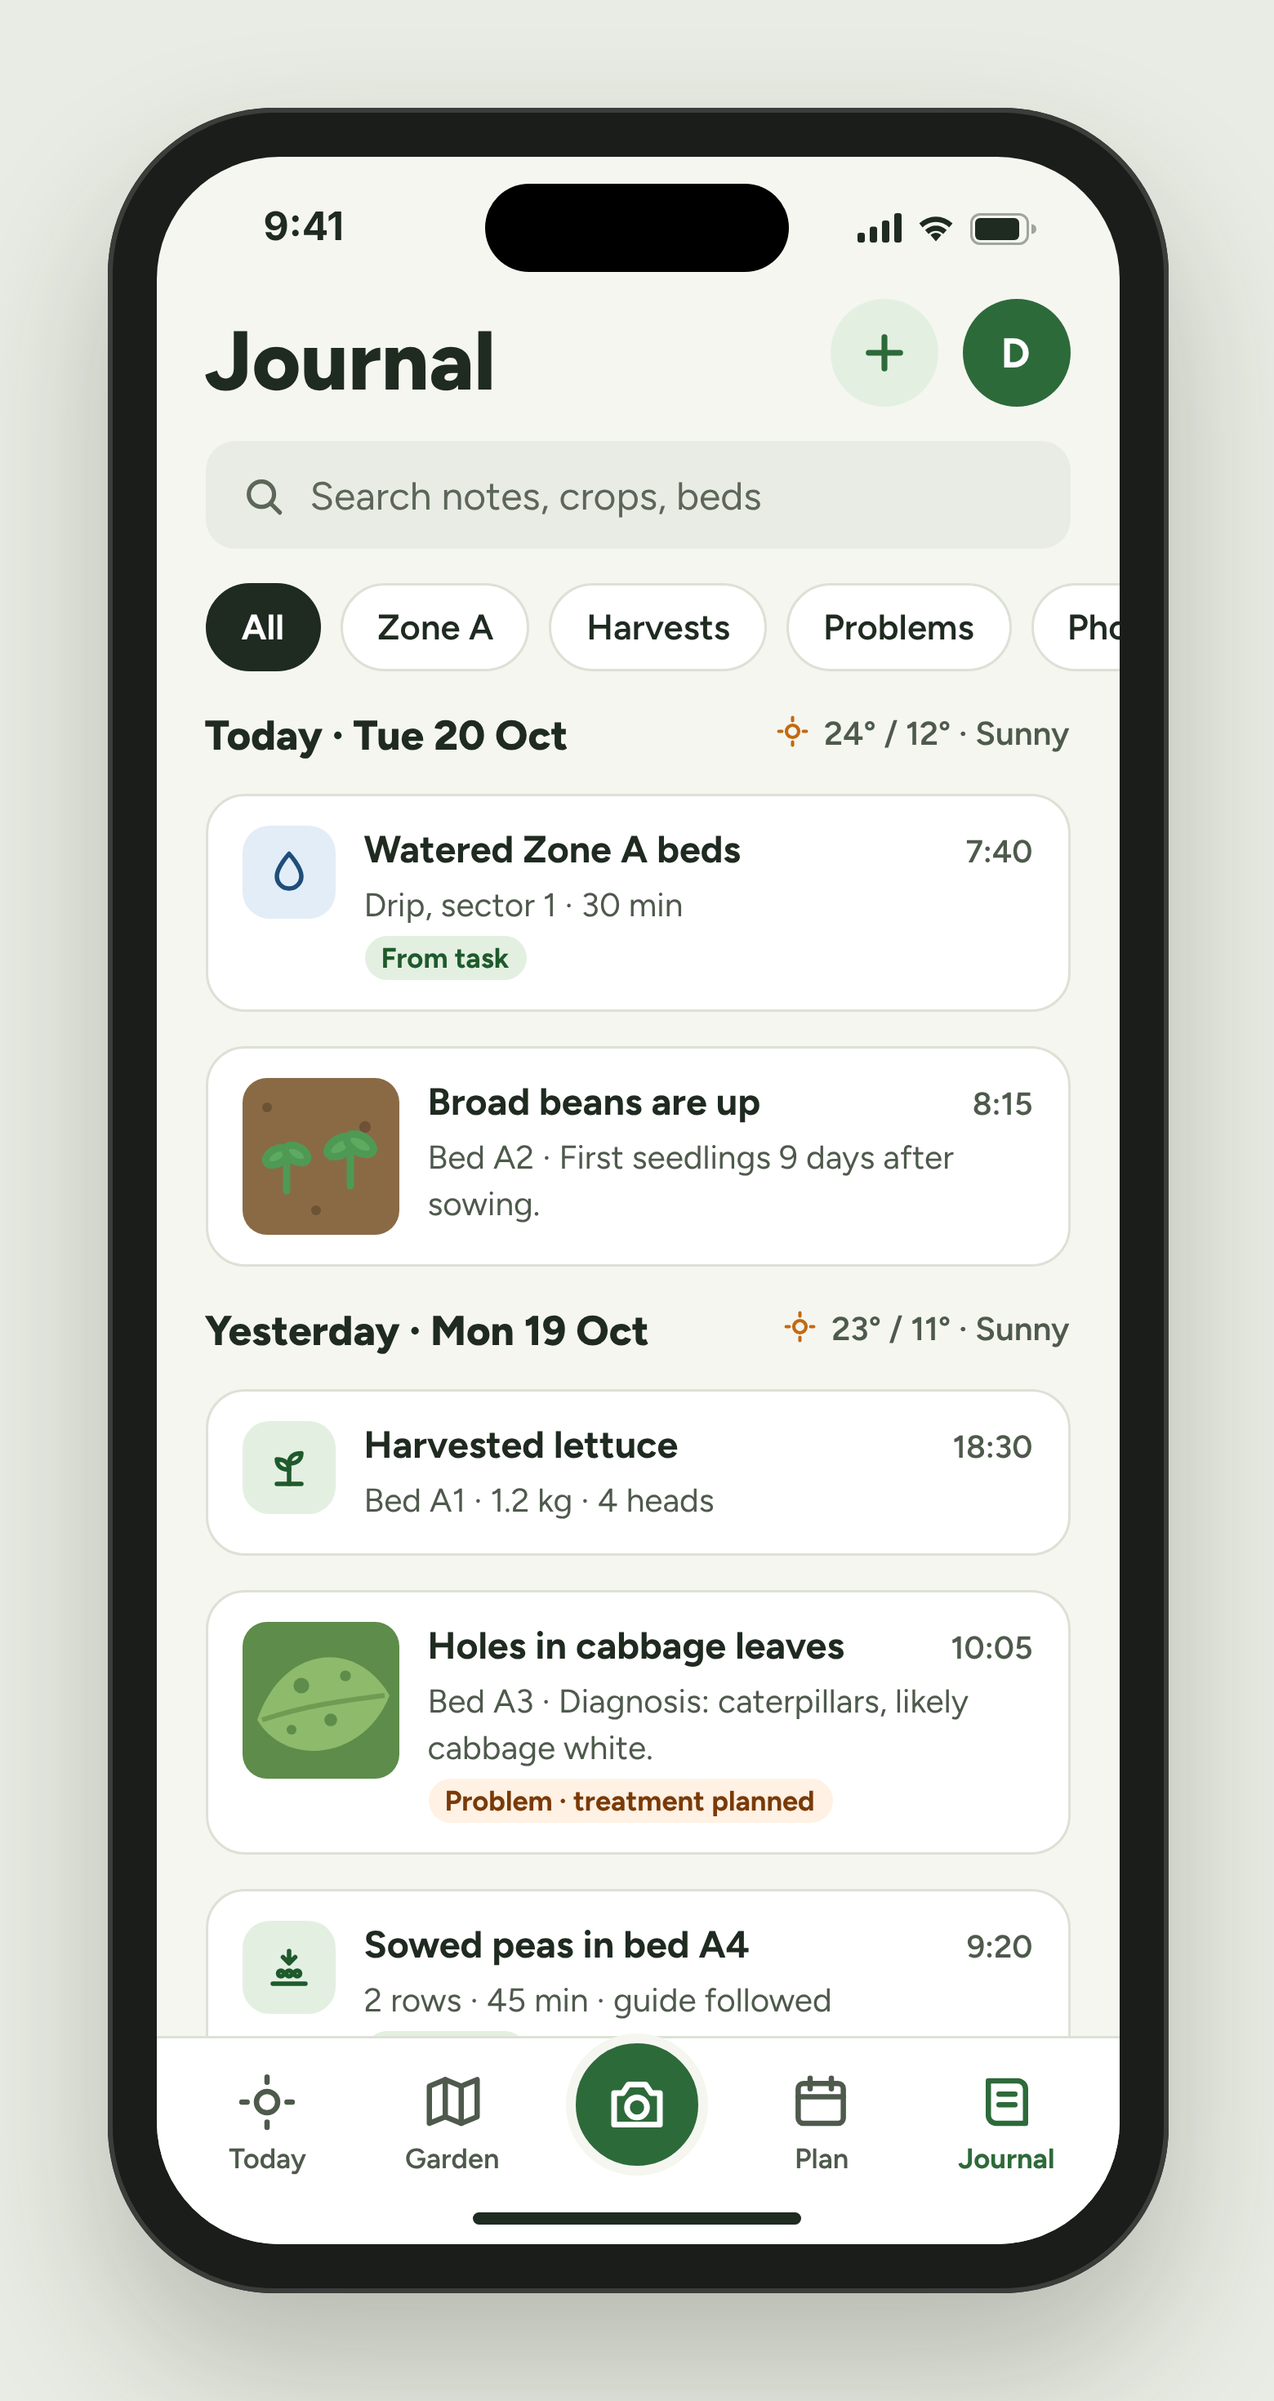
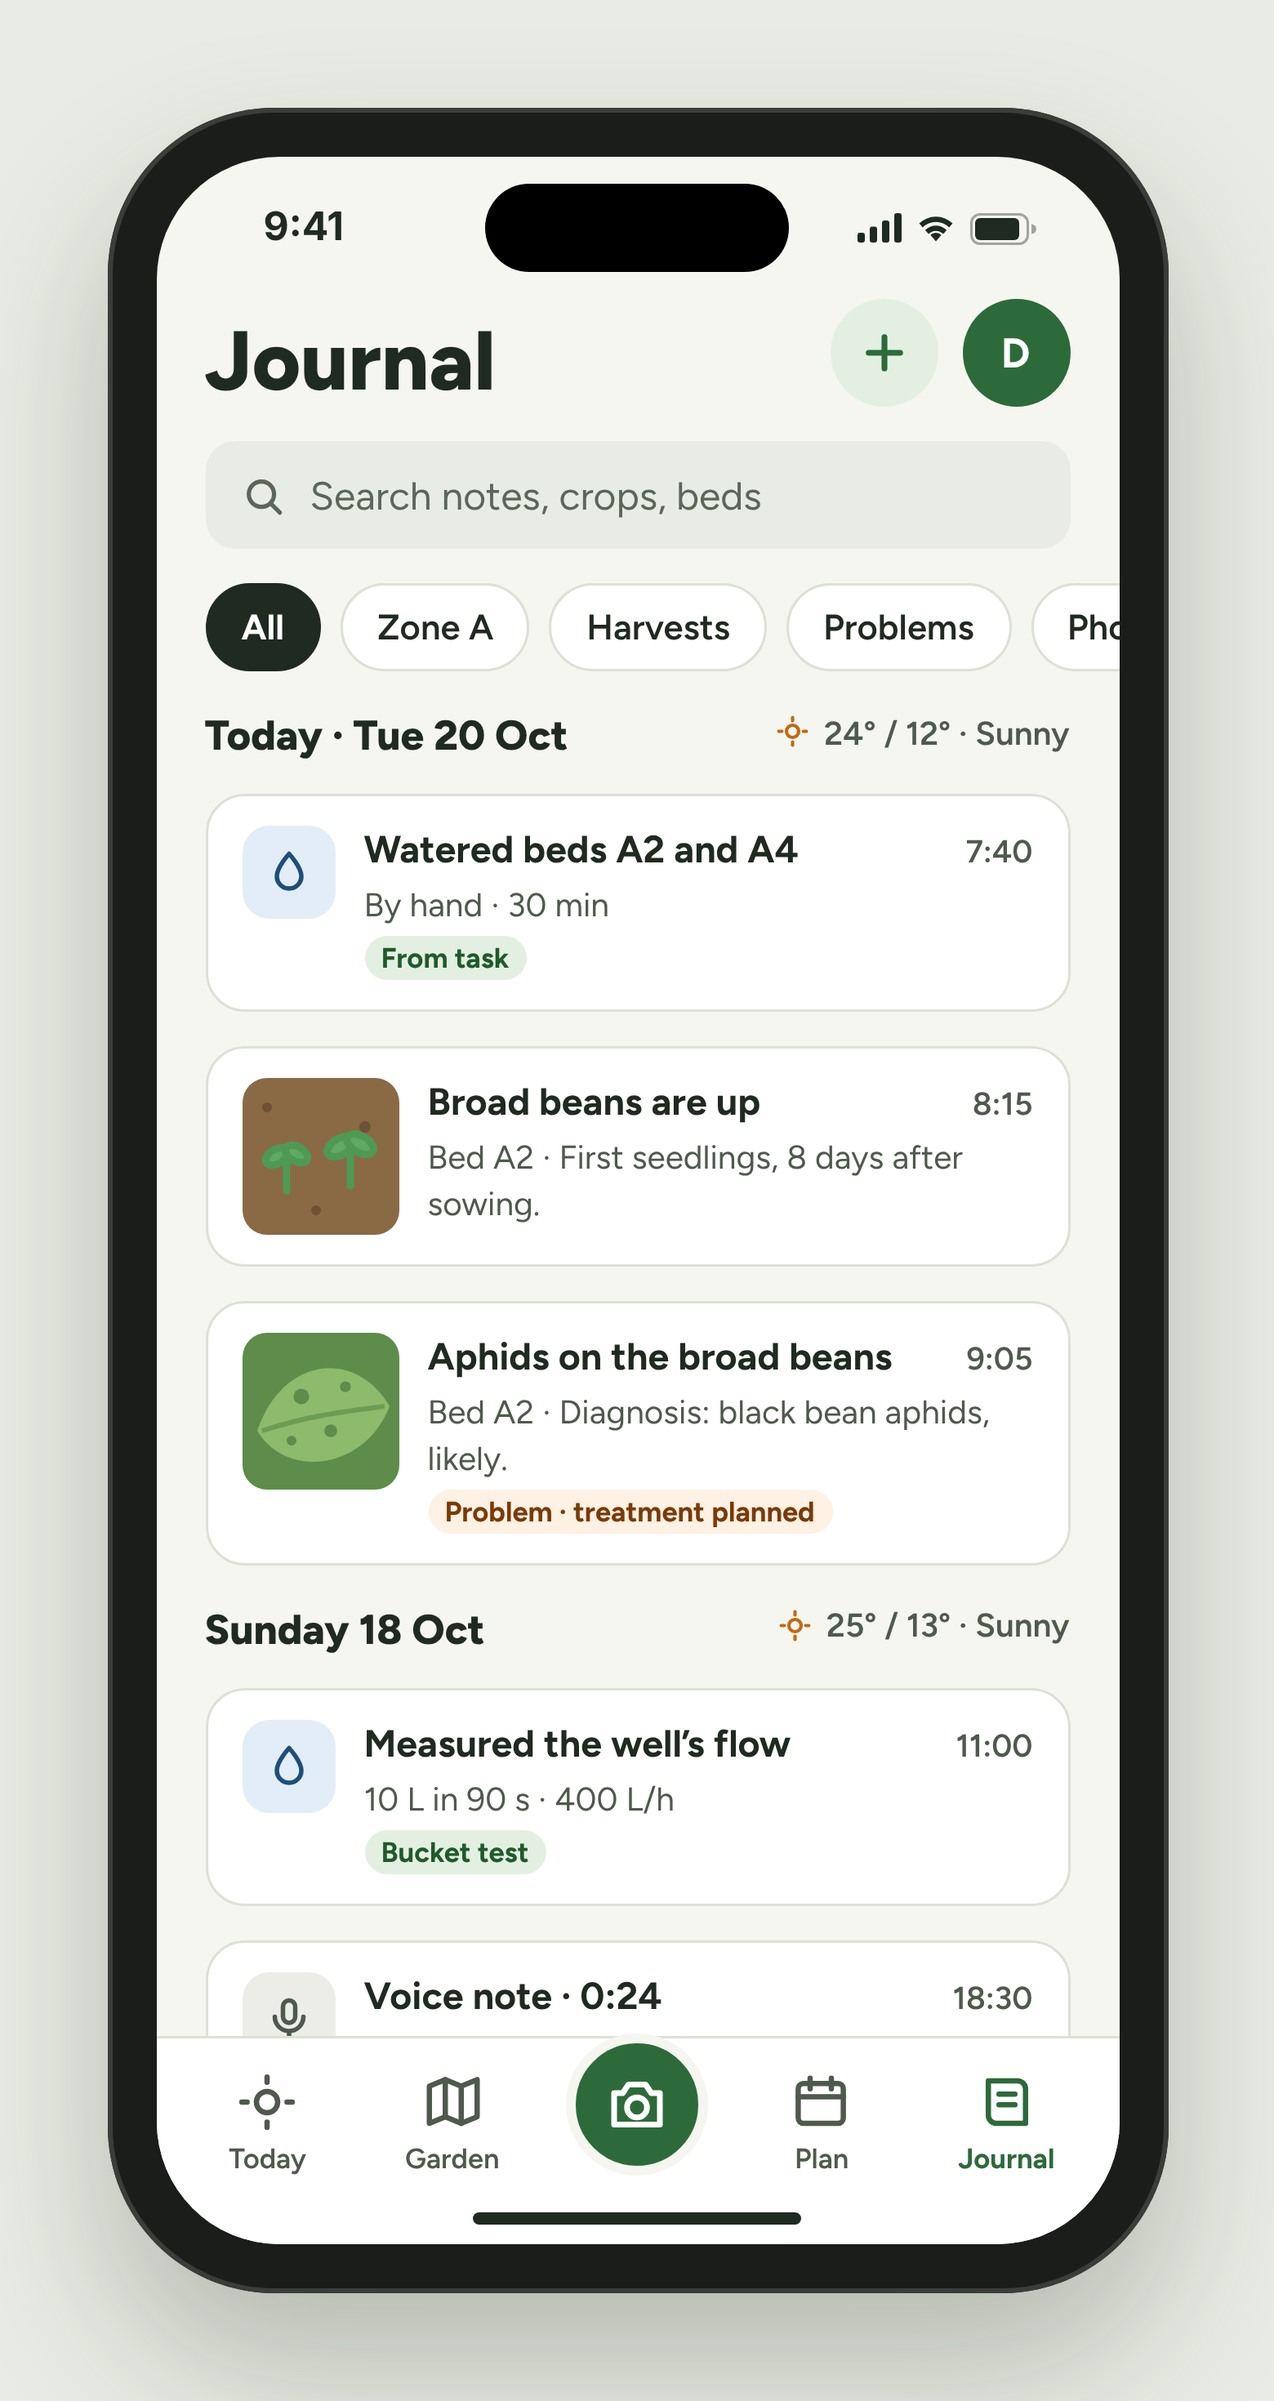
Design F1 journal: entries match the garden (hand watering, beans up, aphids, well flow test, voice note)
Claude-Session: https://claude.ai/code/session_015NynAjU4naPZwzmeuGazot

diff --git a/design/source/F1-journal-full.html b/design/source/F1-journal-full.html
@@ -1,0 +1,133 @@
+<!doctype html>
+<html lang="en">
+<head>
+<meta charset="utf-8">
+<title>F1 Journal</title>
+<link href="https://fonts.googleapis.com/css2?family=Figtree:wght@400;500;600;700;800&display=swap" rel="stylesheet">
+<link rel="stylesheet" href="frame.css">
+<style>
+  .body { flex: 1; overflow: hidden; padding: 4px 20px 0; display: flex; flex-direction: column; gap: 14px; }
+  .body > * { flex: none; }
+  .titlerow { display: flex; align-items: flex-end; justify-content: space-between; }
+  h1 { margin: 0; font-size: 34px; font-weight: 800; line-height: 1.1; }
+  .actions { display: flex; gap: 10px; }
+  .avatar { width: 44px; height: 44px; border-radius: 999px; background: var(--green); color: #fff; font-weight: 700; font-size: 17px; display: flex; align-items: center; justify-content: center; }
+  .plus { width: 44px; height: 44px; border-radius: 999px; background: var(--green-soft); display: flex; align-items: center; justify-content: center; }
+  .search { height: 44px; border-radius: 12px; background: #E9ECE4; display: flex; align-items: center; gap: 10px; padding: 0 14px; font-size: 16px; color: #5C6659; }
+  .chips { display: flex; gap: 8px; margin-right: -20px; overflow: hidden; }
+  .chip { height: 36px; padding: 0 14px; border-radius: 999px; background: #fff; border: 1px solid var(--line); font-size: 14.5px; font-weight: 600; display: flex; align-items: center; white-space: nowrap; }
+  .chip.on { background: var(--text); border-color: var(--text); color: #fff; font-weight: 700; }
+  .day { display: flex; justify-content: space-between; align-items: baseline; margin-top: 2px; }
+  .day b { font-size: 17px; font-weight: 800; }
+  .day span { font-size: 13.5px; color: var(--muted); font-weight: 600; display: flex; gap: 5px; align-items: center; }
+  .entry { background: #fff; border: 1px solid var(--line); border-radius: 16px; padding: 12px 14px; display: flex; gap: 12px; }
+  .ic { width: 38px; height: 38px; border-radius: 11px; display: flex; align-items: center; justify-content: center; flex: none; }
+  .txt { flex: 1; min-width: 0; display: flex; flex-direction: column; gap: 3px; }
+  .t1 { display: flex; align-items: center; gap: 8px; }
+  .t1 b { font-size: 15.5px; font-weight: 700; line-height: 1.3; }
+  .time { margin-left: auto; font-size: 13px; color: var(--muted); font-weight: 600; flex: none; }
+  .meta { font-size: 13.5px; color: var(--muted); line-height: 1.4; }
+  .badge { font-size: 11.5px; font-weight: 700; padding: 2px 7px; border-radius: 999px; background: var(--green-soft); color: var(--green-ink); white-space: nowrap; }
+  .badge.warn { background: var(--orange-soft); color: #7A3A08; }
+  .thumb { width: 64px; height: 64px; border-radius: 10px; overflow: hidden; flex: none; }
+  .tabbar { position: relative; z-index: 30; flex: none; background: #fff; border-top: 1px solid var(--line); padding: 8px 8px 28px; display: grid; grid-template-columns: repeat(5, minmax(0, 1fr)); align-items: end; }
+  .tab { color: var(--muted); display: flex; flex-direction: column; align-items: center; gap: 3px; font-size: 11.5px; font-weight: 600; min-height: 48px; justify-content: flex-end; }
+  .tab.on { color: var(--green); font-weight: 700; }
+  .cam { display: flex; justify-content: center; }
+  .cam span { width: 58px; height: 58px; border-radius: 999px; background: var(--green); display: flex; align-items: center; justify-content: center; margin-top: -22px; border: 4px solid var(--bg); }
+</style>
+<style>.stage{height:1060px}.phone{height:1000px}.screen{height:960px}</style>
+</head>
+<body>
+<div class="stage"><div class="phone"><div class="screen">
+  <div class="island"></div>
+  <div class="status">
+    <span>9:41</span>
+    <span class="icons">
+      <svg width="18" height="12" viewBox="0 0 18 12"><rect x="0" y="8" width="3" height="4" rx="1" fill="#1F2A20"/><rect x="5" y="5.5" width="3" height="6.5" rx="1" fill="#1F2A20"/><rect x="10" y="3" width="3" height="9" rx="1" fill="#1F2A20"/><rect x="15" y="0" width="3" height="12" rx="1" fill="#1F2A20"/></svg>
+      <svg width="16" height="12" viewBox="0 0 16 12"><path d="M8 11.5l2.2-2.6a3.2 3.2 0 0 0-4.4 0z" fill="#1F2A20"/><path d="M3.6 6.9a6.3 6.3 0 0 1 8.8 0l-1.4 1.6a4.2 4.2 0 0 0-6 0z" fill="#1F2A20"/><path d="M1.2 4.2a9.7 9.7 0 0 1 13.6 0l-1.4 1.6a7.6 7.6 0 0 0-10.8 0z" fill="#1F2A20"/></svg>
+      <svg width="27" height="13" viewBox="0 0 27 13"><rect x="0.5" y="0.5" width="23" height="12" rx="3.5" fill="none" stroke="#1F2A20" opacity=".4"/><rect x="2" y="2" width="18" height="9" rx="2" fill="#1F2A20"/><path d="M25 4.5v4a2 2 0 0 0 0-4z" fill="#1F2A20" opacity=".4"/></svg>
+    </span>
+  </div>
+
+  <div class="body">
+    <div class="titlerow">
+      <h1>Journal</h1>
+      <div class="actions">
+        <div class="plus" aria-label="New entry"><svg width="22" height="22" viewBox="0 0 24 24" fill="none" stroke="#2D6A3A" stroke-width="2.6" stroke-linecap="round"><path d="M12 5v14M5 12h14"/></svg></div>
+        <div class="avatar">D</div>
+      </div>
+    </div>
+    <div class="search">
+      <svg width="19" height="19" viewBox="0 0 24 24" fill="none" stroke="#5C6659" stroke-width="2.2" stroke-linecap="round"><circle cx="11" cy="11" r="6.5"/><path d="M16 16l4.5 4.5"/></svg>
+      Search notes, crops, beds
+    </div>
+    <div class="chips">
+      <span class="chip on">All</span><span class="chip">Zone A</span><span class="chip">Harvests</span><span class="chip">Problems</span><span class="chip">Photos</span>
+    </div>
+
+    <div class="day"><b>Today · Tue 20 Oct</b><span>
+      <svg width="15" height="15" viewBox="0 0 24 24" fill="none" stroke="#C26A12" stroke-width="2.2" stroke-linecap="round"><circle cx="12" cy="12" r="4"/><path d="M12 3v2M12 19v2M3 12h2M19 12h2"/></svg>24° / 12° · Sunny</span></div>
+
+    <div class="entry">
+      <div class="ic" style="background:#E3EDF7"><svg width="20" height="20" viewBox="0 0 24 24" fill="none" stroke="#1E4E7A" stroke-width="2.2" stroke-linecap="round" stroke-linejoin="round"><path d="M12 3s6 6.5 6 11a6 6 0 0 1-12 0c0-4.5 6-11 6-11z"/></svg></div>
+      <div class="txt">
+        <div class="t1"><b>Watered beds A2 and A4</b><span class="time">7:40</span></div>
+        <div class="meta">By hand · 30 min</div>
+        <div style="display:flex"><span class="badge">From task</span></div>
+      </div>
+    </div>
+
+    <div class="entry">
+      <div class="thumb">
+        <svg width="64" height="64" viewBox="0 0 64 64"><rect width="64" height="64" fill="#8A6A45"/><g fill="#6E5236"><circle cx="10" cy="12" r="2"/><circle cx="50" cy="20" r="2.4"/><circle cx="30" cy="54" r="2"/></g><g stroke="#4E9A55" stroke-width="3" stroke-linecap="round" fill="#5DAA60"><path d="M18 46 V34" fill="none"/><ellipse cx="14" cy="32" rx="5" ry="3" transform="rotate(-30 14 32)"/><ellipse cx="22" cy="31" rx="5" ry="3" transform="rotate(30 22 31)"/><path d="M44 44 V30" fill="none"/><ellipse cx="40" cy="28" rx="6" ry="3.4" transform="rotate(-30 40 28)"/><ellipse cx="48" cy="27" rx="6" ry="3.4" transform="rotate(30 48 27)"/></g></svg>
+      </div>
+      <div class="txt">
+        <div class="t1"><b>Broad beans are up</b><span class="time">8:15</span></div>
+        <div class="meta">Bed A2 · First seedlings, 8 days after sowing.</div>
+      </div>
+    </div>
+
+    <div class="entry">
+      <div class="thumb">
+        <svg width="64" height="64" viewBox="0 0 64 64"><rect width="64" height="64" fill="#5E8C4A"/><path d="M6 40 C 16 10, 46 6, 60 30 C 50 56, 18 60, 6 40z" fill="#8DBA6B"/><path d="M8 40 C 26 34, 42 32, 58 30" stroke="#6E9C52" stroke-width="2" fill="none"/><g fill="#5E8C4A"><circle cx="24" cy="26" r="3.2"/><circle cx="36" cy="40" r="2.6"/><circle cx="42" cy="22" r="2.2"/><circle cx="20" cy="44" r="2"/></g></svg>
+      </div>
+      <div class="txt">
+        <div class="t1"><b>Aphids on the broad beans</b><span class="time">9:05</span></div>
+        <div class="meta">Bed A2 · Diagnosis: black bean aphids, likely.</div>
+        <div style="display:flex"><span class="badge warn">Problem · treatment planned</span></div>
+      </div>
+    </div>
+
+    <div class="day"><b>Sunday 18 Oct</b><span>
+      <svg width="15" height="15" viewBox="0 0 24 24" fill="none" stroke="#C26A12" stroke-width="2.2" stroke-linecap="round"><circle cx="12" cy="12" r="4"/><path d="M12 3v2M12 19v2M3 12h2M19 12h2"/></svg>25° / 13° · Sunny</span></div>
+
+    <div class="entry">
+      <div class="ic" style="background:#E3EDF7"><svg width="20" height="20" viewBox="0 0 24 24" fill="none" stroke="#1E4E7A" stroke-width="2.2" stroke-linecap="round" stroke-linejoin="round"><path d="M12 3s6 6.5 6 11a6 6 0 0 1-12 0c0-4.5 6-11 6-11z"/></svg></div>
+      <div class="txt">
+        <div class="t1"><b>Measured the well’s flow</b><span class="time">11:00</span></div>
+        <div class="meta">10 L in 90 s · 400 L/h</div>
+        <div style="display:flex"><span class="badge">Bucket test</span></div>
+      </div>
+    </div>
+
+    <div class="entry">
+      <div class="ic" style="background:#ECEDE8"><svg width="20" height="20" viewBox="0 0 24 24" fill="none" stroke="#4E5A4C" stroke-width="2.2" stroke-linecap="round" stroke-linejoin="round"><rect x="9" y="3" width="6" height="11" rx="3"/><path d="M5 11a7 7 0 0 0 14 0M12 18v3"/></svg></div>
+      <div class="txt">
+        <div class="t1"><b>Voice note · 0:24</b><span class="time">18:30</span></div>
+        <div class="meta">“The pump makes a knocking noise when it starts. Ask about it.”</div>
+      </div>
+    </div>
+  </div>
+
+  <nav class="tabbar">
+    <span class="tab"><svg width="26" height="26" viewBox="0 0 24 24" fill="none" stroke="currentColor" stroke-width="2" stroke-linecap="round" stroke-linejoin="round"><circle cx="12" cy="12" r="4"/><path d="M12 2.5v2M12 19.5v2M2.5 12h2M19.5 12h2"/></svg>Today</span>
+    <span class="tab"><svg width="26" height="26" viewBox="0 0 24 24" fill="none" stroke="currentColor" stroke-width="2" stroke-linecap="round" stroke-linejoin="round"><path d="M3 6l6-2.5 6 2.5 6-2.5v14l-6 2.5-6-2.5-6 2.5z"/><path d="M9 3.5v14M15 6v14"/></svg>Garden</span>
+    <span class="cam"><span><svg width="28" height="28" viewBox="0 0 24 24" fill="none" stroke="#fff" stroke-width="2" stroke-linecap="round" stroke-linejoin="round"><path d="M4 8h3l2-3h6l2 3h3v11H4z"/><circle cx="12" cy="13" r="3.5"/></svg></span></span>
+    <span class="tab"><svg width="26" height="26" viewBox="0 0 24 24" fill="none" stroke="currentColor" stroke-width="2" stroke-linecap="round" stroke-linejoin="round"><rect x="3.5" y="5" width="17" height="15" rx="2"/><path d="M3.5 10h17M8 3v4M16 3v4"/></svg>Plan</span>
+    <span class="tab on"><svg width="26" height="26" viewBox="0 0 24 24" fill="none" stroke="currentColor" stroke-width="2" stroke-linecap="round" stroke-linejoin="round"><path d="M5 4h11a3 3 0 0 1 3 3v13H8a3 3 0 0 1-3-3z"/><path d="M9 9h6M9 13h6"/></svg>Journal</span>
+  </nav>
+  <div class="home"></div>
+</div></div></div>
+</body>
+</html>

diff --git a/design/source/F1-journal.html b/design/source/F1-journal.html
@@ -71,8 +71,8 @@
     <div class="entry">
       <div class="ic" style="background:#E3EDF7"><svg width="20" height="20" viewBox="0 0 24 24" fill="none" stroke="#1E4E7A" stroke-width="2.2" stroke-linecap="round" stroke-linejoin="round"><path d="M12 3s6 6.5 6 11a6 6 0 0 1-12 0c0-4.5 6-11 6-11z"/></svg></div>
       <div class="txt">
-        <div class="t1"><b>Watered Zone A beds</b><span class="time">7:40</span></div>
-        <div class="meta">Drip, sector 1 · 30 min</div>
+        <div class="t1"><b>Watered beds A2 and A4</b><span class="time">7:40</span></div>
+        <div class="meta">By hand · 30 min</div>
         <div style="display:flex"><span class="badge">From task</span></div>
       </div>
     </div>
@@ -83,18 +83,7 @@
       </div>
       <div class="txt">
         <div class="t1"><b>Broad beans are up</b><span class="time">8:15</span></div>
-        <div class="meta">Bed A2 · First seedlings 9 days after sowing.</div>
-      </div>
-    </div>
-
-    <div class="day"><b>Yesterday · Mon 19 Oct</b><span>
-      <svg width="15" height="15" viewBox="0 0 24 24" fill="none" stroke="#C26A12" stroke-width="2.2" stroke-linecap="round"><circle cx="12" cy="12" r="4"/><path d="M12 3v2M12 19v2M3 12h2M19 12h2"/></svg>23° / 11° · Sunny</span></div>
-
-    <div class="entry">
-      <div class="ic" style="background:var(--green-soft)"><svg width="20" height="20" viewBox="0 0 24 24" fill="none" stroke="#1F5A2C" stroke-width="2.2" stroke-linecap="round" stroke-linejoin="round"><path d="M6 20h12"/><path d="M12 20V10"/><path d="M12 10c0-3 2-5 6-5 0 3-2 5-6 5zM12 13c0-3-2-5-6-5 0 3 2 5 6 5z"/></svg></div>
-      <div class="txt">
-        <div class="t1"><b>Harvested lettuce</b><span class="time">18:30</span></div>
-        <div class="meta">Bed A1 · 1.2 kg · 4 heads</div>
+        <div class="meta">Bed A2 · First seedlings, 8 days after sowing.</div>
       </div>
     </div>
 
@@ -103,17 +92,29 @@
         <svg width="64" height="64" viewBox="0 0 64 64"><rect width="64" height="64" fill="#5E8C4A"/><path d="M6 40 C 16 10, 46 6, 60 30 C 50 56, 18 60, 6 40z" fill="#8DBA6B"/><path d="M8 40 C 26 34, 42 32, 58 30" stroke="#6E9C52" stroke-width="2" fill="none"/><g fill="#5E8C4A"><circle cx="24" cy="26" r="3.2"/><circle cx="36" cy="40" r="2.6"/><circle cx="42" cy="22" r="2.2"/><circle cx="20" cy="44" r="2"/></g></svg>
       </div>
       <div class="txt">
-        <div class="t1"><b>Holes in cabbage leaves</b><span class="time">10:05</span></div>
-        <div class="meta">Bed A3 · Diagnosis: caterpillars, likely cabbage white.</div>
+        <div class="t1"><b>Aphids on the broad beans</b><span class="time">9:05</span></div>
+        <div class="meta">Bed A2 · Diagnosis: black bean aphids, likely.</div>
         <div style="display:flex"><span class="badge warn">Problem · treatment planned</span></div>
       </div>
     </div>
+
+    <div class="day"><b>Sunday 18 Oct</b><span>
+      <svg width="15" height="15" viewBox="0 0 24 24" fill="none" stroke="#C26A12" stroke-width="2.2" stroke-linecap="round"><circle cx="12" cy="12" r="4"/><path d="M12 3v2M12 19v2M3 12h2M19 12h2"/></svg>25° / 13° · Sunny</span></div>
+
     <div class="entry">
-      <div class="ic" style="background:var(--green-soft)"><svg width="20" height="20" viewBox="0 0 24 24" fill="none" stroke="#1F5A2C" stroke-width="2.2" stroke-linecap="round" stroke-linejoin="round"><path d="M4 20h16"/><circle cx="8" cy="15" r="1.4"/><circle cx="12" cy="15" r="1.4"/><circle cx="16" cy="15" r="1.4"/><path d="M12 4v6M9 7l3 3 3-3"/></svg></div>
+      <div class="ic" style="background:#E3EDF7"><svg width="20" height="20" viewBox="0 0 24 24" fill="none" stroke="#1E4E7A" stroke-width="2.2" stroke-linecap="round" stroke-linejoin="round"><path d="M12 3s6 6.5 6 11a6 6 0 0 1-12 0c0-4.5 6-11 6-11z"/></svg></div>
       <div class="txt">
-        <div class="t1"><b>Sowed peas in bed A4</b><span class="time">9:20</span></div>
-        <div class="meta">2 rows · 45 min · guide followed</div>
-        <div style="display:flex"><span class="badge">From task</span></div>
+        <div class="t1"><b>Measured the well’s flow</b><span class="time">11:00</span></div>
+        <div class="meta">10 L in 90 s · 400 L/h</div>
+        <div style="display:flex"><span class="badge">Bucket test</span></div>
+      </div>
+    </div>
+
+    <div class="entry">
+      <div class="ic" style="background:#ECEDE8"><svg width="20" height="20" viewBox="0 0 24 24" fill="none" stroke="#4E5A4C" stroke-width="2.2" stroke-linecap="round" stroke-linejoin="round"><rect x="9" y="3" width="6" height="11" rx="3"/><path d="M5 11a7 7 0 0 0 14 0M12 18v3"/></svg></div>
+      <div class="txt">
+        <div class="t1"><b>Voice note · 0:24</b><span class="time">18:30</span></div>
+        <div class="meta">“The pump makes a knocking noise when it starts. Ask about it.”</div>
       </div>
     </div>
   </div>
